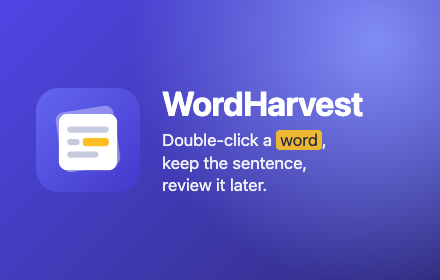
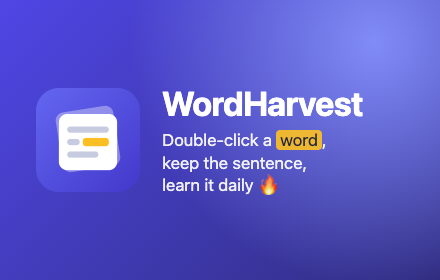
docs: update README, store listing, privacy policy and screenshots for lessons

Changed region(s): [[0.3545, 0.6286, 0.65, 0.7143]]

diff --git a/scripts/screenshots/chrome-mock.js b/scripts/screenshots/chrome-mock.js
@@ -2,7 +2,7 @@
 // Fakes the parts of the chrome.* API the extension uses, plus the on-device
 // Translator/LanguageDetector, so the real built UI can render from file:// URLs.
 // eslint-disable-next-line no-unused-vars
-function installChromeMock({ storage, dictionary, lang }) {
+function installChromeMock({ storage, dictionary, lang, lessonResult }) {
   const clone = (v) => (v === undefined ? v : JSON.parse(JSON.stringify(v)));
   const store = clone(storage);
   const listeners = [];
@@ -44,7 +44,8 @@ function installChromeMock({ storage, dictionary, lang }) {
         getURL: (p) => p,
         async sendMessage(msg) {
           if (msg.type === 'translate') return { ok: true, value: { text: translate(msg.text), provider: 'MyMemory' } };
-          if (msg.type === 'saveWord') return { ok: true, value: { status: 'created', card: {} } };
+          if (msg.type === 'saveWord') return { ok: true, value: { status: 'created', card: {}, xp: 1 } };
+          if (msg.type === 'completeLesson') return { ok: true, value: lessonResult };
           return { ok: false, error: 'unknown message' };
         },
       },
@@ -52,6 +53,14 @@ function installChromeMock({ storage, dictionary, lang }) {
       tabs: { create: async () => ({}) },
     },
   });
+
+  // No real voices in headless Chrome; pretend the learner's language has one.
+  if (window.speechSynthesis) {
+    const voice = { lang: `${lang}-ES`, name: 'Mock', default: true, localService: true, voiceURI: 'mock' };
+    speechSynthesis.getVoices = () => [voice];
+    speechSynthesis.speak = () => {};
+  }
+  window.AudioContext = class { constructor() { throw new Error('muted'); } };
 
   window.Translator = {
     availability: async () => 'available',

diff --git a/scripts/screenshots/frame.html b/scripts/screenshots/frame.html
@@ -12,7 +12,7 @@
   </style>
 </head>
 <body>
-  <div class="col"><h2>Your progress at a glance</h2><iframe src="../../dist/popup.html" width="300" height="262"></iframe></div>
-  <div class="col"><h2>On-device translation, your language</h2><iframe src="../../dist/options.html" width="640" height="600"></iframe></div>
+  <div class="col"><h2>Streak, goal and due words</h2><iframe src="../../dist/popup.html" width="300" height="262"></iframe></div>
+  <div class="col"><h2>Your language, your daily goal</h2><iframe src="../../dist/options.html" width="640" height="600"></iframe></div>
 </body>
 </html>

diff --git a/README.md b/README.md
@@ -1,30 +1,47 @@
 # WordHarvest: learn words while you read
 
-A Chrome extension (Manifest V3) for picking up vocabulary from the pages you read:
+A Chrome extension (Manifest V3) for picking up vocabulary from the pages you read, and keeping it with short, game-like lessons:
 
 1. **Double-click a word** on any page. A popup shows its translation.
-2. **Save** it, or turn on auto-save. The word becomes a flashcard together with the sentence it came from, the page title and the URL.
-3. **Review** your cards with spaced repetition (SM-2: Again / Hard / Good / Easy).
+2. **Save** it, or turn on auto-save. The word is saved with the sentence it came from, the page title and the URL, and earns you XP.
+3. **Learn** it in Duolingo-style lessons. The app checks your answers itself, and a spaced-repetition schedule (SM-2) decides when each word comes back.
 
 ![Translate popup](store/screenshots/1-translate-popup.png)
 
-| Review | Browse |
+| Learn | Lesson |
 | --- | --- |
-| ![Review](store/screenshots/2-review.png) | ![Browse](store/screenshots/3-browse.png) |
+| ![Learn home](store/screenshots/2-learn-home.png) | ![Lesson](store/screenshots/3-lesson.png) |
+| ![Lesson complete](store/screenshots/4-lesson-complete.png) | ![Popup and settings](store/screenshots/5-popup-and-settings.png) |
 
 ## Features
 
+**Reading**
 - The translation popup is rendered in a **closed Shadow DOM**, so page CSS can't change it and it can't change the page.
 - **Sentence capture:** the extension finds the nearest block element around the word and splits its text into sentences on `. ! ? 。！？…` and similar marks, using the locale-aware `Intl.Segmenter` with a regex fallback.
-- **No duplicate cards:** saving the same word again from another page adds the new sentence as another example on the existing card.
+- **No duplicates:** saving the same word again from another page adds the new sentence as another example on the existing word.
 - **Translation:** uses Chrome's built-in **on-device Translator + Language Detector APIs** when they are available, and falls back to the free **MyMemory** API. No API keys are needed.
 - **Language:** the source language is detected automatically, and you can change it in the popup. The target language is set on the options page (English by default).
-- **Review page:**
-  - spaced-repetition review with keyboard shortcuts
-  - browse, search, edit and delete cards
-  - **JSON / CSV export and import**, plus an **Anki-ready CSV** export
-- **Toolbar popup:** shows the number of saved words and cards due today, with a *Start review* button.
 - Double-clicks in inputs, textareas, selects and contenteditable areas are ignored.
+
+**Learning**
+- **Lessons** of about 10 exercises. Exercises get harder as you learn a word:
+  1. **New word** card, then pick its meaning
+  2. pick the meaning, or **listen** and pick it
+  3. **fill in the blank** in the sentence you saved, choosing from word chips
+  4. **type the missing word**; typos and missing accents count as nearly right
+  5. **match the pairs** bonus round
+- Wrong answers come back later in the same lesson.
+- **Grading:** answers are checked automatically and feed the SM-2 schedule: wrong → *again*, typo → *hard*, right → *good*, typed right on a strong word → *easy*.
+- **XP** for correct answers, combos (5+ in a row), finishing lessons, perfect lessons, and every new word you save.
+- **Daily goal** (10 / 20 / 30 / 50 XP), **streak** with a 7-day calendar, and **streak freezes** (earned every 7 days; each saves your streak if you miss a day).
+- **Levels**, **achievements** and **word strength** bars (new → mastered).
+- **Practice mode** when nothing is due: uses your weakest words and earns XP without changing the schedule.
+- Sound effects (synthesized, no audio files), confetti, and pronunciation through the browser's built-in voices. Each can be turned off.
+- Keyboard: **1–4** to pick an answer, **Enter** to check and continue.
+
+**Managing words**
+- Browse, search, edit and delete saved words.
+- **JSON / CSV export and import**, plus an **Anki-ready CSV** export.
 
 ## Install (development)
 
@@ -39,12 +56,12 @@ npm run build          # → dist/
 2. Turn on **Developer mode** (top right).
 3. Click **Load unpacked** and select the **`dist/`** folder.
 
-Open any article, double-click a word, and click **Save**. Click the toolbar icon to see your stats and start a review.
+Open any article, double-click a word, and click **Save**. Click the toolbar icon to see your streak and start a lesson.
 
 ```bash
 npm run watch          # rebuild on change, then click ↻ on the extension card in chrome://extensions
 npm run typecheck
-npm test               # unit tests: SM-2, merging, CSV, sentence splitting, MyMemory parsing
+npm test               # unit tests: SM-2, exercises, streaks/XP, merging, CSV, sentence splitting, MyMemory parsing
 npm run package        # typecheck + test + build + zip → release/wordharvest-<version>.zip
 npm run store-assets   # regenerate icons, screenshots and promo tile (uses your installed Chrome)
 ```
@@ -53,12 +70,12 @@ npm run store-assets   # regenerate icons, screenshots and promo tile (uses your
 
 | Where | What |
 | --- | --- |
-| Any web page | Double-click a word to see the popup. **Save** saves the card. **Esc** or a click outside closes the popup. Use the language menu if the language was detected wrong. |
-| Toolbar icon | Shows saved words and cards due today. **Start review** opens the review page. |
-| Review | **Space** shows the answer. **1–4** grades the card (Again / Hard / Good / Easy). **E** edits the card. |
-| Browse | Search across words, translations and sentences. Click a card to edit it, delete it, or reset its progress. |
-| Import & export | JSON (lossless), CSV (one row per example sentence), and Anki CSV export. JSON and CSV import merges into existing cards. |
-| Settings | Target language, auto-save, translating example sentences, translation provider, and an optional MyMemory e-mail for a higher free quota. |
+| Any web page | Double-click a word to see the popup. **Save** saves the word (+1 XP). **Esc** or a click outside closes the popup. Use the language menu if the language was detected wrong. |
+| Toolbar icon | Shows your streak, today's XP against your goal, and due words. **Start lesson** goes straight into a lesson. |
+| Learn | Home: streak, daily goal, level and achievements. **Start lesson**, or **Practice weak words** when nothing is due. In a lesson: **1–4** pick, **Enter** check / continue, **Skip** if you don't know. |
+| Browse | Search across words, translations and sentences. Bars show each word's strength. Click a word to edit it, delete it, or reset its progress. |
+| Import & export | JSON (lossless), CSV (one row per example sentence), and Anki CSV export. JSON and CSV import merges into existing words. |
+| Settings | Target language, auto-save, translating example sentences, daily goal, sound effects, listening exercises, translation provider, and an optional MyMemory e-mail for a higher free quota. |
 
 **Importing into Anki (2.1.55+):** use *File → Import* and choose the exported `wordharvest-anki-*.csv`. The file's header lines set the separator, the HTML option and the tags column. Choose the **Basic** note type.
 
@@ -70,23 +87,23 @@ npm run store-assets   # regenerate icons, screenshots and promo tile (uses your
 │   dblclick → word + sentence → detect language → translate → popup (Shadow DOM)  │
 │        │ on-device Translator / LanguageDetector run here (window-only APIs)     │
 └────────┼─────────────────────────────────────────────────────────────────────────┘
-         │ chrome.runtime.sendMessage  {translate | saveWord}
+         │ chrome.runtime.sendMessage  {translate | saveWord | completeLesson}
 ┌────────▼──────────── service worker (src/background/) ───────────┐
 │  • remote translation proxy (MyMemory; the only network access)  │
-│  • single, serialized writer for saved words → chrome.storage    │
+│  • single, serialized writer for words + progress (XP, streak)   │
 └────────┬─────────────────────────────────────────────────────────┘
-         │ chrome.storage.local  (one key per card + "settings")
+         │ chrome.storage.local  (one key per card + "progress" + "settings")
 ┌────────▼──────────── extension pages (src/pages/) ─────────────────────────────┐
-│  popup.html    stats + "Start review"                                          │
-│  review.html   #review (SM-2 session) · #browse (search/edit) · #data (import/export) │
+│  popup.html    streak, daily goal, due words + "Start lesson"                 │
+│  review.html   #learn (home, lessons) · #browse (search/edit) · #data (import/export) │
 │  options.html  settings                                                        │
 └────────────────────────────────────────────────────────────────────────────────┘
 ```
 
 - **Content script** (`src/content/`): listens for `dblclick`, ignores editable targets, and cleans the selection. It walks up to the nearest block element and builds that block's text. It then finds the sentence that contains the word, detects the language from that sentence (more reliable than from a single word), translates the word, and renders the popup. Chrome's on-device Translator and LanguageDetector APIs only exist in window contexts, not in service workers, so they run here.
-- **Service worker** (`src/background/`): saves every card for the content script. It writes one card at a time, so saves from several tabs can't race each other. It also calls the remote translation provider. The service worker is the only place with a host permission for the translation API.
-- **Pages** (`src/pages/`): plain TypeScript, no framework. They read and write `chrome.storage.local` directly.
-- **Shared logic** (`src/shared/`): pure functions with unit tests (`srs.ts`, `cards.ts`, `csv.ts`, `highlight.ts`) and thin storage wrappers (`storage.ts`, `settings.ts`).
+- **Service worker** (`src/background/`): saves every word for the content script and records every finished lesson. It does one write at a time, so saves from several tabs and lesson results can't overwrite each other. It also awards XP, updates the streak and unlocks achievements. It also calls the remote translation provider. The service worker is the only place with a host permission for the translation API.
+- **Pages** (`src/pages/`): plain TypeScript, no framework. `learn/home.ts` shows progress and starts lessons; `learn/lesson.ts` runs them (rendering, answer checking, rescheduling words, summary); `fx.ts` has sounds, speech and confetti. Pages write words directly and send lesson results to the service worker.
+- **Shared logic** (`src/shared/`): pure functions with unit tests (`srs.ts` scheduling, `exercises.ts` lesson building and answer checking, `progress.ts` XP / streak / levels / achievements, `cards.ts`, `csv.ts`, `highlight.ts`) and thin storage wrappers (`storage.ts`, `settings.ts`).
 
 Build: esbuild bundles each entry point (content script and pages as IIFE, service worker as ESM) into `dist/`, and copies `public/` (manifest, HTML, CSS, icons) next to them. The output is not minified, which makes Chrome Web Store reviews faster.
 
@@ -107,7 +124,16 @@ interface Card {
   srs: { due: number; interval: number; ease: number; reps: number; lapses: number; lastReviewed?: number };
   createdAt: number; updatedAt: number;
 }
-// key: "settings" → { targetLang, autoSave, translateSentences, provider: "auto"|"builtin"|"remote", myMemoryEmail }
+// key: "progress"
+interface Progress {
+  xp: number;
+  dailyXp: Record<string, number>;   // "YYYY-MM-DD" → XP (last 90 days)
+  streak: { current: number; longest: number; lastDay: string | null; freezes: number };
+  lessons: number; perfectLessons: number;
+  achievements: Record<string, number>;   // id → unlock time
+}
+// key: "settings" → { targetLang, autoSave, translateSentences, provider: "auto"|"builtin"|"remote",
+//                     myMemoryEmail, dailyGoal, soundEffects, listening }
 ```
 
 Each card has its own key, so saving a word writes about 1 KB instead of rewriting the whole collection. `chrome.storage.local` holds 10 MB, which is roughly 10,000 cards with a few example sentences each. If you need more, add the `unlimitedStorage` permission or move to IndexedDB. Only `src/shared/storage.ts` would need to change.
@@ -213,8 +239,8 @@ public/            manifest.json, HTML pages, styles.css, icons/
 src/content/       content script: double-click handling, sentence capture, Shadow-DOM popup
 src/background/    service worker: serialized saves, remote translation proxy
 src/translate/     provider interface, Chrome on-device provider, MyMemory, registry, chain
-src/shared/        types, SM-2 scheduler, card merge/validation, CSV/Anki, storage, settings
-src/pages/         toolbar popup, review/browse/data page, options page
+src/shared/        types, SM-2 scheduler, exercises, progress/XP/streaks, card merge/validation, CSV/Anki, storage, settings
+src/pages/         toolbar popup, learn (home + lessons), browse, import/export, options page
 test/              unit tests (node --test)
 scripts/           build, zip, store-asset generation (headless Chrome + mocked chrome.* API)
 store/             listing, privacy policy, permission answers, publishing guide, images

diff --git a/store/listing.md b/store/listing.md
@@ -12,36 +12,41 @@ WordHarvest: Translate, Dictionary & Vocabulary Flashcards
 
 ## Short description / summary (≤ 132 chars)
 
-The summary comes from `description` in `public/manifest.json` (129 chars):
+The summary comes from `description` in `public/manifest.json` (124 chars):
 
 ```
-Pop-up translator and dictionary: double-click any word to translate it, save it with its sentence, and learn it with flashcards.
+Pop-up translator and dictionary: double-click any word to translate it, save it, and master it with fun, game-like lessons.
 ```
 
 ## Detailed description
 
 ```
-Learn vocabulary from what you actually read.
+Learn vocabulary from what you actually read — and keep it with fun, bite-sized lessons.
 
-WordHarvest turns any web page into a language lesson. Double-click a word you don't know and a small popup shows its translation right next to it. Save it, and the word becomes a flashcard together with the sentence you found it in — so you remember what it means and how it is used.
+WordHarvest turns every web page into a language lesson. Double-click a word you don't know and a small popup translates it right next to the word. Save it, and WordHarvest keeps the sentence you found it in. Then short, game-like lessons help you remember it for good.
 
-HOW IT WORKS
+HARVEST WORDS WHILE YOU READ
 • Double-click any word on any website to see its translation.
-• Click Save (or turn on auto-save) to keep it. The full sentence, page title and link are saved with it.
-• Found the same word on another page? Its new sentence is added as another example on the same card — no duplicates.
-• Review your cards with spaced repetition. Rate each card Again, Hard, Good or Easy, and WordHarvest schedules it for the right moment (SM-2 algorithm).
+• Click Save (or turn on auto-save). Every new word earns XP.
+• The sentence, page title and link are saved with the word. Found it again elsewhere? The new sentence is added to the same word.
 
-FEATURES
-• Translation popup that never breaks the page's layout.
-• Automatic language detection; translate into English or 35+ other languages.
-• Private by default: uses Chrome's built-in, on-device translator when available. Optional fallback to the free MyMemory service for other language pairs — or switch it off completely.
-• Flashcards show the word in its original sentence, highlighted; the back shows the translation and the translated sentence.
-• Browse, search, edit and delete your saved words.
-• Export and import as JSON or CSV, or export an Anki-ready file.
-• Keyboard shortcuts for fast reviews (Space to flip, 1–4 to grade).
-• No account, no ads, no tracking. Your words are stored only in your browser.
+LEARN WITH GAME-LIKE LESSONS
+• Exercises that grow with you: meet the word, pick its meaning, listen, fill in the blank in your own sentence, type the missing word, match the pairs.
+• Answers are checked for you — small typos and missing accents still count.
+• Mistakes come back at the end of the lesson so you get them right.
+• Smart scheduling (spaced repetition) brings each word back right before you'd forget it.
 
-Double-clicks inside text fields and editors are ignored, so it never gets in the way of typing.
+STAY MOTIVATED
+• XP, levels and a daily goal you choose.
+• Daily streak with a weekly calendar, and streak freezes that save your streak on a missed day.
+• Achievements, combo bonuses, sounds and confetti.
+• Word strength bars show what you've mastered.
+
+MORE
+• Private by default: uses Chrome's built-in on-device translator when available, with an optional free online fallback (MyMemory) — or turn it off.
+• Translate into English or 35+ other languages, with automatic language detection.
+• Browse, search and edit your words; export to JSON, CSV or Anki.
+• No account, no ads, no tracking. Your words and progress stay in your browser.
 
 Open source (MIT): https://github.com/talipturkmen/wordharvest
 ```
@@ -60,9 +65,10 @@ Open source (MIT): https://github.com/talipturkmen/wordharvest
 | --- | --- |
 | Store icon (128×128) | `store/icons/icon-128.png` |
 | Screenshot 1 — translate popup | `store/screenshots/1-translate-popup.png` |
-| Screenshot 2 — review | `store/screenshots/2-review.png` |
-| Screenshot 3 — browse | `store/screenshots/3-browse.png` |
-| Screenshot 4 — popup & settings | `store/screenshots/4-popup-and-settings.png` |
+| Screenshot 2 — learn home (streak, goal, achievements) | `store/screenshots/2-learn-home.png` |
+| Screenshot 3 — lesson exercise | `store/screenshots/3-lesson.png` |
+| Screenshot 4 — lesson complete | `store/screenshots/4-lesson-complete.png` |
+| Screenshot 5 — toolbar popup & settings | `store/screenshots/5-popup-and-settings.png` |
 | Small promo tile (440×280) | `store/promo-small-440x280.png` |
 
 Regenerate all of them with `npm run store-assets`.

diff --git a/store/privacy-policy.md b/store/privacy-policy.md
@@ -1,6 +1,6 @@
 # Privacy Policy — WordHarvest
 
-_Last updated: October 18, 2026_
+_Last updated: October 18, 2026 (v1.1)_
 
 WordHarvest is a Chrome extension for learning vocabulary while you read. This policy explains what data the extension handles and where that data goes.
 
@@ -17,8 +17,9 @@ When you save a word, the extension stores these items in your browser's extensi
 - the word, its translation and the detected language
 - the sentence the word appeared in, and the translation of that sentence
 - the title and address (URL) of the page where you saved it
-- notes you add, and your flashcard review history (due dates, intervals)
-- your settings (target language, auto-save, translation provider and, if you enter one, a MyMemory e-mail address)
+- notes you add, and each word's review schedule (due dates, intervals)
+- your learning progress: XP, daily XP history, streak, lessons completed and achievements
+- your settings (target language, auto-save, daily goal, sound and listening options, translation provider and, if you enter one, a MyMemory e-mail address)
 
 This data never leaves your device unless you export it yourself. The extension has no servers. Uninstalling the extension, or using **Delete all cards** on the Import & export page, removes it.
 
@@ -32,6 +33,10 @@ This data never leaves your device unless you export it yourself. The extension 
    - your e-mail address, only if you entered one in the settings to get a higher free quota
 
    The extension does **not** send the page URL, the page title, other page content, or your saved cards. MyMemory's own privacy policy applies to these requests: https://mymemory.translated.net/doc/privacy.php. To keep everything on your device, choose **On-device only** in the settings.
+
+## Pronunciation (listening exercises)
+
+Lessons can read words aloud using your browser's built-in speech voices. WordHarvest prefers voices that run on your device. If your system only has an online voice for a language (for example Chrome's "Google" voices), Chrome sends the word to be spoken to Google to produce the audio. You can turn listening off in the settings.
 
 ## What the extension does not do
 

diff --git a/store/PUBLISHING.md b/store/PUBLISHING.md
@@ -42,7 +42,7 @@ Use [`listing.md`](listing.md) for all text.
 | Category | Education |
 | Language | English |
 | Store icon | `store/icons/icon-128.png` |
-| Screenshots | everything in `store/screenshots/` (1280×800) |
+| Screenshots | everything in `store/screenshots/` (1280×800, up to 5 — the store's limit) |
 | Small promo tile | `store/promo-small-440x280.png` |
 | Homepage / support URL | the GitHub repo and its issues page |
 
